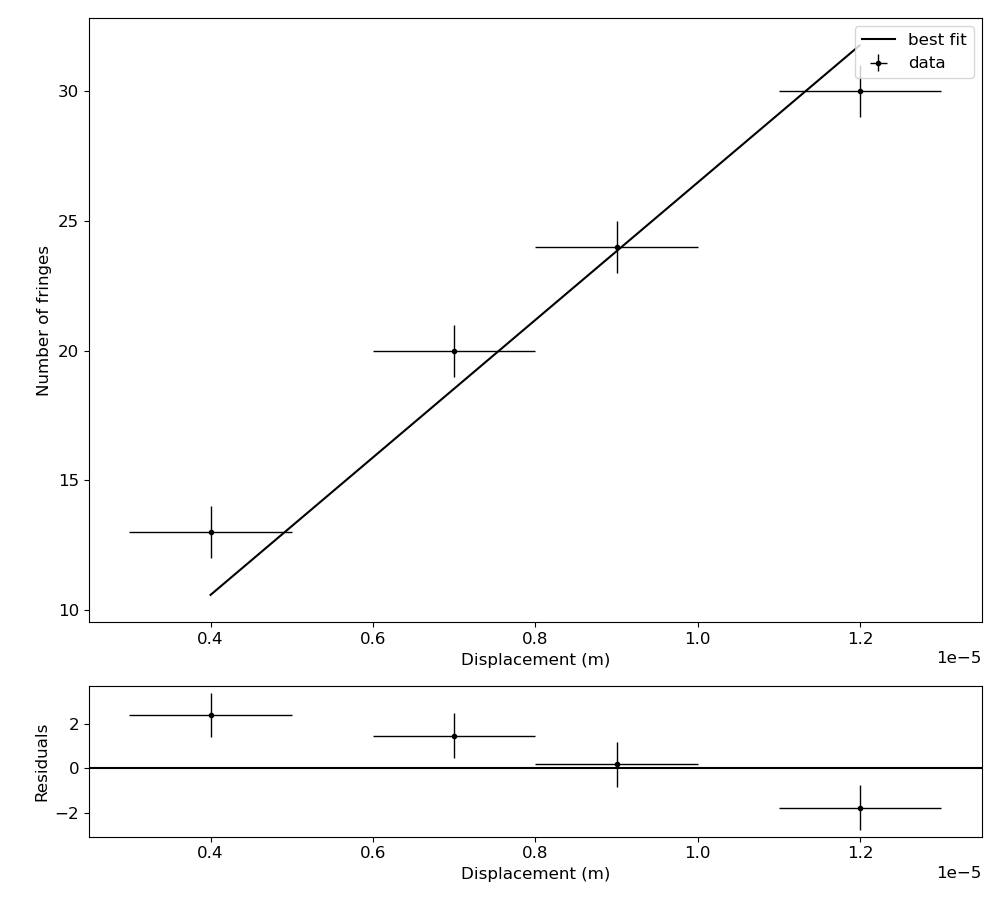
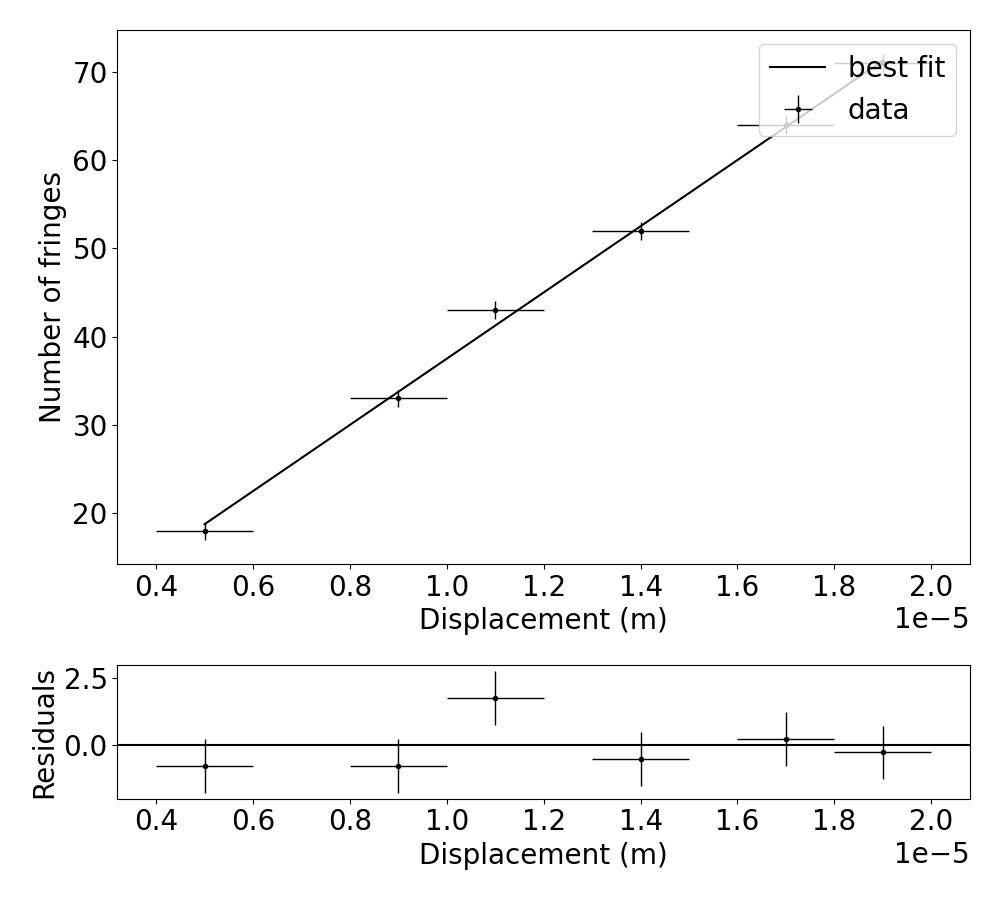
.

diff --git a/lab2-interferometry/part2_index_of _refraction.py b/lab2-interferometry/part2_index_of _refraction.py
@@ -11,17 +11,18 @@ l = 5.331677018579005e-07
 l_err = 4.144240283077511e-09
 theta_f = np.array([73.66666667, 69.41666667, 69, 71, 71.83333333, 70])
 theta_i = np.array([73.66666667, 73.66666667, 73.66666667, 73.66666667, 73.66666667, 73.66666667])
-theta_err = np.array([0.5/6, 0.5/6, 0.5/6, 0.5/6, 0.5/6, 0.5/6])
+theta_err = np.array([0.25/6, 0.25/6, 0.25/6, 0.25/6, 0.25/6, 0.25/6])
 dtheta = (theta_i - theta_f) / 180 * np.pi
 dtheta_err = (tl.error_add(theta_err, theta_err) / 180) * np.pi
 N = np.array([0, 28, 32, 11, 5, 20])
-N_err = np.array([1, 1, 1, 1, 1, 1])
+N_err = 0.75
 
 initial_guess = 1
-bb.plot_fit(quadratic_proportional, dtheta, N, dtheta_err, N_err, init_guess=initial_guess, font_size=12, xlabel="Angle (rad)", ylabel="Number of fringes")
+bb.plot_fit(quadratic_proportional, dtheta, N, dtheta_err, N_err, init_guess=initial_guess, font_size=20, xlabel="Angle (rad)", ylabel="Number of fringes")
 
 a_fit = 4930.000705260947
-a_fit_err = 53.843642206041224
+N_predicted = quadratic_proportional(dtheta, a_fit)
+a_fit_err = np.sqrt(len(dtheta) * ((1/(len(dtheta) - 2)) * np.sum((N - N_predicted) ** 2)) / (len(dtheta) * np.sum(dtheta**4) - np.sum(dtheta**2) ** 2))
 
 n = 1 / (1 - (l * a_fit) / t)
 n_err = tl.error_mult(l, a_fit, l_err, a_fit_err, l * a_fit)
@@ -29,8 +30,6 @@ n_err = tl.error_mult(l * a_fit, t, n_err, t_err, l * a_fit / t)
 n_err = tl.error_add(0, n_err)
 n_err = tl.error_mult(1 - (l * a_fit) / t, 1, n_err, 0, n)
 print(f"Index of refraction: {n} +/- {n_err}")
-
-N_predicted = quadratic_proportional(dtheta, a_fit)
 
 rmse = tl.rmse(N, N_predicted)
 print(f"RMSE: {rmse}")

diff --git a/lab2-interferometry/part1_LED.py b/lab2-interferometry/part1_LED.py
@@ -12,28 +12,29 @@ half_coherence_N_err = 1
 
 coherence_length = half_coherence_length * 2
 coherence_length_err = tl.error_mult(half_coherence_length, 2, half_coherence_length_err, 0, coherence_length)
-coherence_N = half_coherence_N * 2
+coherence_N = half_coherence_N * 2 / 2
 coherence_N_err = tl.error_mult(half_coherence_N, 2, half_coherence_N_err, 0, coherence_N)
 print(f"Coherence length distance: {coherence_length} +/- {coherence_length_err}")
 print(f"Coherence length wave count: {coherence_N} +/- {coherence_N_err}")
 
 dx = np.array([9, 4, 7, 12])
 N = np.array([24, 13, 20, 30,])
-Nerr = np.array([1, 1, 1, 1])
-dxerr = np.array([1, 1, 1, 1])
+Nerr = 0.75
+dxerr = 1/np.sqrt(2)
 
 dx = dx / (10**6)
 dxerr = dxerr / (10**6)
 
 initial_guess = 2648275.861687403
-bb.plot_fit(proportional, dx, N, dxerr, Nerr, init_guess=initial_guess, font_size=12, xlabel="Displacement (m)", ylabel="Number of fringes")
+bb.plot_fit(proportional, dx, N, dxerr, Nerr, init_guess=initial_guess, font_size=20, xlabel="Displacement (m)", ylabel="Number of fringes")
 
-m_fit, m_fit_err = 2648275.861687403, 113076.81171228216
+m_fit = 2648275.861687403
+N_predicted = proportional(dx, m_fit)
+m_fit_err = np.sqrt(len(dx) * ((1/(len(dx) - 2)) * np.sum((N - N_predicted) ** 2)) / (len(dx) * np.sum(dx**2) - np.sum(dx) ** 2))
+print(f"m: {m_fit} +/- {m_fit_err}")
 l = 2 / m_fit
 l_err = tl.error_mult(m_fit, 2, m_fit_err, 0, l)
 print(f"Lambda: {l} +/- {l_err}")
-
-N_predicted = proportional(dx, m_fit)
 
 rmse = tl.rmse(N, N_predicted)
 print(f"RMSE: {rmse}")

diff --git a/lab2-interferometry/part3_thermal_expansion.py b/lab2-interferometry/part3_thermal_expansion.py
@@ -19,19 +19,21 @@ dT = T - T0
 dT_err = tl.error_add(T_err, T0_err)
 N = np.array([0, 1, 2, 3, 4, 5, 6, 7, 9, 10, 11, 12, 13, 14, 15, 16, 17, 18, 19, 20, 21, 22, 23, 24, 25, 26, 27, 28, 29,
               31, 32, 33, 34, 35, 36, 37, 38, 39, 40, 41, 42, 43, 44, 45, 46, 47, 48])
-N_err = 1
+N_err = 0.75
 
 initial_guess = 8
-bb.plot_fit(proportional, dT, N, dT_err, N_err, init_guess=initial_guess, font_size=12, xlabel="Temperature change (K)", ylabel="Number of fringes")
+bb.plot_fit(proportional, dT, N, dT_err, N_err, init_guess=initial_guess, font_size=20, xlabel="Temperature change (K)", ylabel="Number of fringes")
 
-m_fit, m_fit_err = 8.975206611178253, 0.031597764987057374
+m_fit = 8.975206611178253
+N_predicted = proportional(dT, m_fit)
+m_fit_err = np.sqrt(len(dT) * ((1/(len(dT) - 2)) * np.sum((N - N_predicted) ** 2)) / (len(dT) * np.sum(dT**2) - np.sum(dT) ** 2))
+print(f"m: {m_fit} +/- {m_fit_err}")
 a = m_fit * l / 2 / L0
 a_err = tl.error_mult(m_fit, l, m_fit_err, l_err, m_fit * l)
 a_err = tl.error_mult(m_fit * l, 2, a_err, 0, m_fit * l / 2)
 a_err = tl.error_mult(m_fit * l / 2, L0, a_err, L0_err, a)
 print(f"coefficient of thermal expansion: {a} +/- {a_err}")
 
-N_predicted = proportional(dT, m_fit)
 
 rmse = tl.rmse(N, N_predicted)
 print(f"RMSE: {rmse}")

diff --git a/lab2-interferometry/part1_laser.py b/lab2-interferometry/part1_laser.py
@@ -7,23 +7,23 @@ def proportional(t, m):
 
 dx = np.array([9, 11, 14, 5, 17, 19])
 N = np.array([33, 43, 52, 18, 64, 71])
-Nerr = np.array([1, 1, 1, 1, 1, 1])
-dxerr = np.array([1, 1, 1, 1, 1, 1])
+Nerr = 0.75
+dxerr = 1/np.sqrt(2)
 
 dx = dx / (10**6)
 dxerr = dxerr / (10**6)
 
 initial_guess = 3700000
-bb.plot_fit(proportional, dx, N, dxerr, Nerr, init_guess=initial_guess, font_size=12, xlabel="Displacement (m)", ylabel="Number of fringes")
+bb.plot_fit(proportional, dx, N, dxerr, Nerr, init_guess=initial_guess, font_size=20, xlabel="Displacement (m)", ylabel="Number of fringes")
 
 m_fit = 3751164.958099879
-m_fit_err = 29157.296801090775
+N_predicted = proportional(dx, m_fit)
+m_fit_err = np.sqrt(len(dx) * ((1/(len(dx) - 2)) * np.sum((N - N_predicted) ** 2)) / (len(dx) * np.sum(dx**2) - np.sum(dx) ** 2))
+print(f"m: {m_fit} +/- {m_fit_err}")
 
 l = 2 / m_fit
 l_err = tl.error_mult(m_fit, 2, m_fit_err, 0, l)
 print(f"Lambda: {l} +/- {l_err}")
-
-N_predicted = proportional(dx, m_fit)
 
 rmse = tl.rmse(N, N_predicted)
 print(f"RMSE: {rmse}")

diff --git a/tools.py b/tools.py
@@ -21,8 +21,8 @@ def chi_squared(observed, predicted, uncertainty):
 def chi_squared_func(observed, independent, function, *params, uncertainty):
     return np.sum((observed - function(independent, *params))**2 / uncertainty**2)
 
-def reduced_chi_squared(chi2, degrees_of_freedom, data_points):
-    return chi2 / (data_points - degrees_of_freedom)
+def reduced_chi_squared(chi2, parameters, data_points):
+    return chi2 / (data_points - parameters)
 
 def rmse(observed, predicted):
     return np.sqrt(np.mean((observed - predicted) ** 2))

diff --git a/fit_black_box.py b/fit_black_box.py
@@ -65,7 +65,7 @@ def plot_fit(my_func, xdata, ydata, xerror=None, yerror=None, init_guess=None, f
     # Plot the best fit curve on top of the data points as a line.
     # NOTE: you may want to change the value of label to something better!!
 
-    ax1.legend(loc='upper right')
+    ax1.legend(loc='lower right')
     # Prints a box using what's in the "label" strings in the previous two lines.
     # loc specifies the location
 
